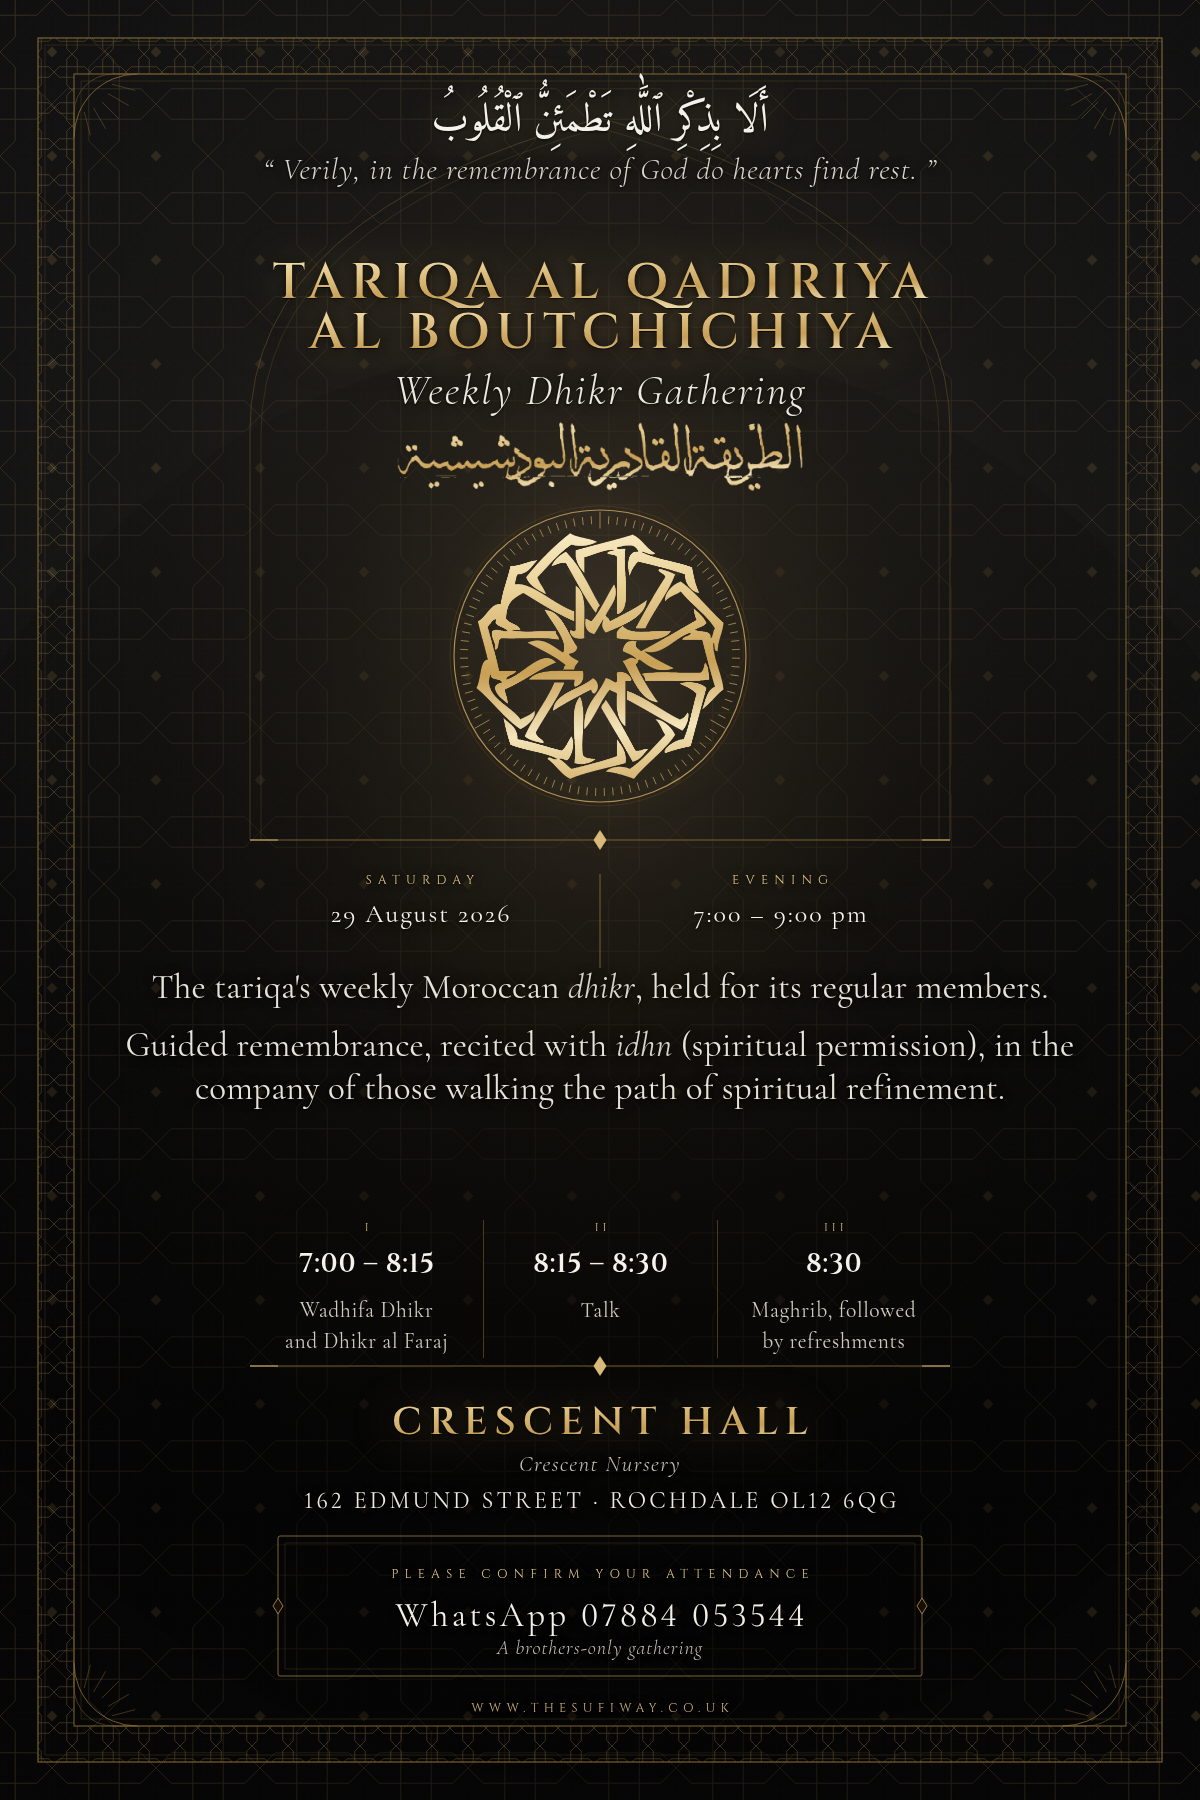
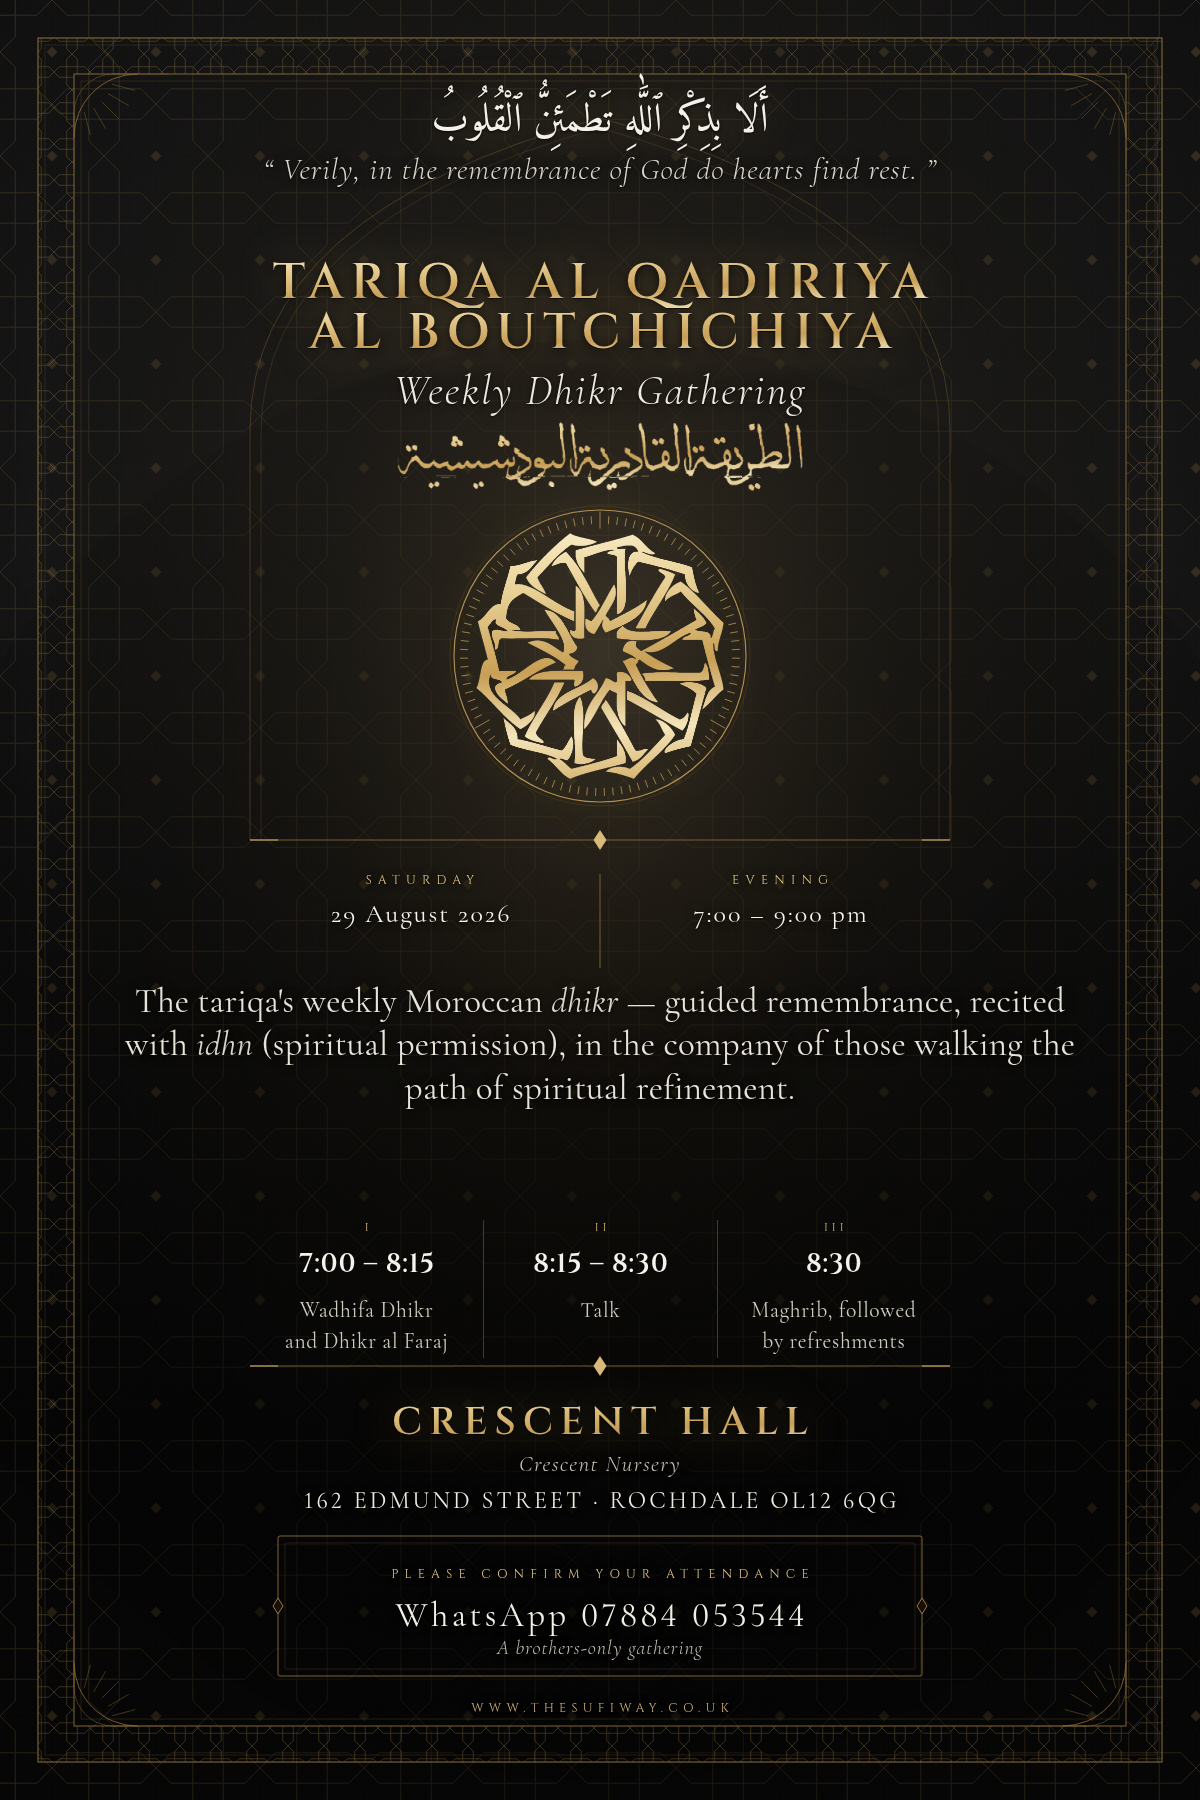
Outline the gold text, tighten body copy, auto-compute Maghrib times
Gold text (ayah/translation at top, "CRESCENT HALL" at bottom) was too
low-contrast against Sandstone's terracotta ground on its own. Added a
thin black -webkit-text-stroke outline via new gold_stroke/gold_stroke_thin
palette keys (default off, so every other colourway is unaffected).

Tightened the body paragraph to one sentence, dropping the now-redundant
"held for its regular members" clause.

Adds prayer_times.py: build_schedule(event_date) fetches the real Maghrib
time for Rochdale from the Aladhan API (Muslim World League method) and
derives the session/talk/Maghrib programme times from it, instead of those
being hand-typed against one fixed example date. render() takes an
optional sched dict; omitting it keeps every existing render unchanged
(DEFAULT_SCHED holds the current 29 August 2026 example).

Claude-Session: https://claude.ai/code/session_01W3RXmfEcLks2fUKiCDKANu

Changed region(s): [[0.0925, 0.5289, 0.8942, 0.6222]]

diff --git a/design/weekly-gathering/final/final.py b/design/weekly-gathering/final/final.py
@@ -128,13 +128,15 @@ html,body{{background:#000}}
 .wordmark{{filter:{pal.get('wordmark_shadow', 'drop-shadow(0 0 16px rgba(226,186,108,.24)) drop-shadow(0 1px 1px rgba(0,0,0,.55))')}}}
 .gold{{background:{pal['gold_grad']};
   -webkit-background-clip:text;background-clip:text;color:transparent;
+  -webkit-text-stroke:{pal.get('gold_stroke','0 transparent')};
   filter:{pal.get('gold_shadow', 'drop-shadow(0 1px 0 rgba(0,0,0,.6)) drop-shadow(0 2px 5px rgba(6,4,2,.7)) drop-shadow(0 0 20px rgba(214,172,100,.26))')}}}
 .at.gold{{text-shadow:none}}
 .ink{{color:{pal.get('title_color', '#1A1006')}}}
 .ayah{{font-family:Amiri,serif;font-size:40px;line-height:1.55;color:{pal['ayah']};
+  -webkit-text-stroke:{pal.get('gold_stroke_thin','0 transparent')};
   direction:rtl;filter:{pal.get('ayah_shadow', 'drop-shadow(0 0 16px rgba(214,172,100,.28))')}}}
 .gloss{{font-family:Cormorant,serif;font-style:italic;font-weight:300;font-size:31px;
-  letter-spacing:.03em;color:{pal['gloss']}}}
+  letter-spacing:.03em;color:{pal['gloss']};-webkit-text-stroke:{pal.get('gold_stroke_thin','0 transparent')}}}
 .t1{{font-family:Cinzel,serif;font-weight:600;font-size:50px;letter-spacing:.135em;
   text-indent:.135em;line-height:1}}
 .t2{{font-family:Cormorant,serif;font-style:italic;font-weight:300;font-size:43px;
@@ -233,27 +235,35 @@ def tiles_svg(pal):
 <div class="scrim"></div>
 '''
 
-def bottom_html():
-    return f'''
-<div class="at lab" style="top:{v.ARCH_BASE+32}px;left:{CX-350}px;width:340px">SATURDAY</div>
-<div class="at val" style="top:{v.ARCH_BASE+58}px;left:{CX-350}px;width:340px">29 August 2026</div>
-<div class="at lab" style="top:{v.ARCH_BASE+32}px;left:{CX+10}px;width:340px">EVENING</div>
-<div class="at val" style="top:{v.ARCH_BASE+58}px;left:{CX+10}px;width:340px">7:00 – 9:00 pm</div>
+# the current, manually-set example date — kept as the default so every
+# existing render (and every colourway's __main__ call) stays unchanged.
+# Pass a dict from prayer_times.build_schedule(event_date) to render(..., sched=...)
+# to compute these from the real Maghrib time for a different date instead.
+DEFAULT_SCHED = dict(
+    weekday="SATURDAY", date_str="29 August 2026", event_window="7:00 – 9:00 pm",
+    slot1_time="7:00 – 8:15", slot2_time="8:15 – 8:30", slot3_time="8:30",
+)
 
-<div class="at body" style="top:966px;left:{CX-500}px;width:1000px">
-The tariqa's weekly Moroccan <em>dhikr</em>, held for its regular members.
-</div>
-<div class="at body" style="top:1024px;left:{CX-500}px;width:1000px">
-Guided remembrance, recited with <em>idhn</em> (spiritual permission), in the company of
-those walking the path of spiritual refinement.
+def bottom_html(sched=None):
+    s = dict(DEFAULT_SCHED, **(sched or {}))
+    return f'''
+<div class="at lab" style="top:{v.ARCH_BASE+32}px;left:{CX-350}px;width:340px">{s['weekday']}</div>
+<div class="at val" style="top:{v.ARCH_BASE+58}px;left:{CX-350}px;width:340px">{s['date_str']}</div>
+<div class="at lab" style="top:{v.ARCH_BASE+32}px;left:{CX+10}px;width:340px">EVENING</div>
+<div class="at val" style="top:{v.ARCH_BASE+58}px;left:{CX+10}px;width:340px">{s['event_window']}</div>
+
+<div class="at body" style="top:980px;left:{CX-500}px;width:1000px">
+The tariqa's weekly Moroccan <em>dhikr</em> — guided remembrance, recited with
+<em>idhn</em> (spiritual permission), in the company of those walking the path
+of spiritual refinement.
 </div>
 
 <div class="cols" style="top:1220px">
-  <div><div class="rn">I</div><div class="pt" style="margin-top:11px">7:00 – 8:15</div>
+  <div><div class="rn">I</div><div class="pt" style="margin-top:11px">{s['slot1_time']}</div>
        <div class="pd" style="margin-top:13px">Wadhifa Dhikr<br>and Dhikr al&nbsp;Faraj</div></div>
-  <div><div class="rn">II</div><div class="pt" style="margin-top:11px">8:15 – 8:30</div>
+  <div><div class="rn">II</div><div class="pt" style="margin-top:11px">{s['slot2_time']}</div>
        <div class="pd" style="margin-top:13px">Talk</div></div>
-  <div><div class="rn">III</div><div class="pt" style="margin-top:11px">8:30</div>
+  <div><div class="rn">III</div><div class="pt" style="margin-top:11px">{s['slot3_time']}</div>
        <div class="pd" style="margin-top:13px">Maghrib, followed<br>by refreshments</div></div>
 </div>
 
@@ -268,7 +278,7 @@ those walking the path of spiritual refinement.
 <div class="at url" style="top:1700px">WWW.THESUFIWAY.CO.UK</div>
 '''
 
-def render(pal, out_name, scale=1):
+def render(pal, out_name, scale=1, sched=None):
     hero, hero_extra = build_hero(pal)
     html = f'''<!doctype html>
 <html lang="en"><head><meta charset="utf-8"><title>Weekly Dhikr Gathering</title>
@@ -277,7 +287,7 @@ def render(pal, out_name, scale=1):
 {tiles_svg(pal)}
 {frame_svg(pal, hero_extra)}
 {hero}
-{bottom_html()}
+{bottom_html(sched)}
 </div></body></html>'''
     hp = HERE / f"{out_name}.html"
     hp.write_text(html, encoding="utf-8")
@@ -392,8 +402,11 @@ SANDSTONE.update(
     # of gold, for a bold graphic centrepiece against the terracotta ground.
     title_cls="ink", title_color="#140D06",
     mark_grad="linear-gradient(176deg,#241708 0%,#140D06 55%,#000000 100%)",
-    # the top ayah + its translation read as clearly, richly gold.
+    # the top ayah + its translation read as clearly, richly gold — with a
+    # thin black outline round the letterforms, since flat gold-on-terracotta
+    # was too low-contrast to read at a glance.
     ayah="#C1922F", gloss="#B8862E", t2="#140D06", lab="#5C3E17", val="#3A210D",
+    gold_stroke="0.6px #140D06", gold_stroke_thin="0.4px #140D06",
     body="#5C3E17", pt="#5C3E17", pd="#5C3E17", rn="#734D1B", vsub="#8A5F22",
     addr="#3A210D", wa="#3A210D", note="#734D1B", url="#734D1B",
     halo0="#B8862E", halo1="#9C6F27", halo2="#7E5A20", halo3="#63451A",

diff --git a/design/weekly-gathering/final/prayer_times.py b/design/weekly-gathering/final/prayer_times.py
@@ -1,0 +1,80 @@
+#!/usr/bin/env python3
+"""Auto-compute the leaflet's programme times from the real Maghrib time for
+   a given date, instead of typing them in by hand and having them drift out
+   of sync with sunset as the date moves through the year.
+
+   Maghrib comes from the Aladhan API (api.aladhan.com), calculation method 3
+   (Muslim World League) — a standard astronomical method, not a specific
+   local mosque timetable. If the tariqa's own committee publishes a
+   timetable that differs from this by a few minutes, override MAGHRIB_OVERRIDES
+   below for the dates that matter, or swap fetch_maghrib()'s method.
+"""
+import datetime, json, urllib.request
+
+# Rochdale, OL12 6QG
+LAT, LON = 53.6097, -2.1561
+TZ = "Europe/London"
+METHOD = 3  # Muslim World League
+
+# How the rest of the evening is scheduled relative to Maghrib — inferred
+# from the one example poster (29 August 2026: session 7:00, talk 8:15-8:30,
+# Maghrib "8:30", ends "9:00"). Adjust these three numbers if the tariqa's
+# actual practice differs — everything else derives from them.
+SESSION_BEFORE_MAGHRIB = 90   # Wadhifa Dhikr and Dhikr al Faraj starts this many minutes before Maghrib
+TALK_BEFORE_MAGHRIB = 15      # the talk starts this many minutes before Maghrib
+EVENT_END_AFTER_MAGHRIB = 30  # refreshments/close, this many minutes after Maghrib
+
+# Manual overrides for specific ISO dates ("YYYY-MM-DD" -> "HH:MM", 24h),
+# for when the calculated time needs to be swapped for a published local
+# timetable value instead of trusting the API.
+MAGHRIB_OVERRIDES = {}
+
+
+def fetch_maghrib(event_date: datetime.date) -> datetime.time:
+    key = event_date.isoformat()
+    if key in MAGHRIB_OVERRIDES:
+        h, m = MAGHRIB_OVERRIDES[key].split(":")
+        return datetime.time(int(h), int(m))
+    url = (f"https://api.aladhan.com/v1/timings/{event_date:%d-%m-%Y}"
+           f"?latitude={LAT}&longitude={LON}&method={METHOD}&timezonestring={TZ}")
+    with urllib.request.urlopen(url, timeout=10) as r:
+        data = json.load(r)
+    h, m = data["data"]["timings"]["Maghrib"].split(":")
+    return datetime.time(int(h), int(m))
+
+
+def _fmt(t: datetime.time) -> str:
+    h = t.hour % 12 or 12
+    return f"{h}:{t.minute:02d}"
+
+
+def _fmt_ampm(t: datetime.time) -> str:
+    return f"{_fmt(t)} {'am' if t.hour < 12 else 'pm'}"
+
+
+def build_schedule(event_date: datetime.date) -> dict:
+    """Returns the strings final.py's page()/bottom_html() need, computed
+       from the real Maghrib time for event_date."""
+    maghrib = fetch_maghrib(event_date)
+    base = datetime.datetime.combine(event_date, maghrib)
+    session_start = base - datetime.timedelta(minutes=SESSION_BEFORE_MAGHRIB)
+    talk_start = base - datetime.timedelta(minutes=TALK_BEFORE_MAGHRIB)
+    event_end = base + datetime.timedelta(minutes=EVENT_END_AFTER_MAGHRIB)
+
+    return dict(
+        weekday=event_date.strftime("%A").upper(),
+        date_str=event_date.strftime("%-d %B %Y"),
+        event_window=f"{_fmt(session_start)} – {_fmt_ampm(event_end)}",
+        slot1_time=f"{_fmt(session_start)} – {_fmt(talk_start)}",
+        slot2_time=f"{_fmt(talk_start)} – {_fmt(base)}",
+        slot3_time=_fmt(base),
+        maghrib_24h=f"{maghrib.hour:02d}:{maghrib.minute:02d}",
+    )
+
+
+if __name__ == "__main__":
+    import sys
+    d = datetime.date.fromisoformat(sys.argv[1]) if len(sys.argv) > 1 else datetime.date(2026, 8, 29)
+    sched = build_schedule(d)
+    for k, v in sched.items():
+        print(f"{k:14s} {v}")

diff --git a/design/weekly-gathering/final/README.md b/design/weekly-gathering/final/README.md
@@ -97,6 +97,49 @@ above:
 - **Everything else** (date/time, body copy, programme, venue, WhatsApp,
   footer) — left exactly as it already was.
 
+The gold text (top ayah/translation, and "CRESCENT HALL" at the bottom,
+which still uses the shared `.gold` class) turned out to be low-contrast on
+its own against the terracotta ground — flat gold on orange. Fixed with a
+thin black `-webkit-text-stroke` outlined round the letterforms: new
+`gold_stroke`/`gold_stroke_thin` palette keys (default `"0 transparent"`,
+so no other colourway is affected), applied in `.gold`, `.ayah` and `.gloss`.
+
+The body paragraph was also rewritten again, still for members rather than
+newcomers but tighter — "held for its regular members" read as redundant
+once the whole poster's tone had already shifted, so it's now one sentence:
+*"The tariqa's weekly Moroccan dhikr — guided remembrance, recited with idhn
+(spiritual permission), in the company of those walking the path of
+spiritual refinement."*
+
+## Auto-computing the programme times from the real Maghrib time (`prayer_times.py`)
+
+The programme (session start, talk, "Maghrib, followed by refreshments")
+was hand-typed against one example date, so it drifts out of sync with
+sunset the moment the actual event date changes. `prayer_times.py` fixes
+that: `build_schedule(event_date)` calls the Aladhan API (Muslim World
+League calculation method, Rochdale's coordinates) for the real Maghrib
+time on that date, then derives the other three displayed times from three
+editable offsets — session start 90 min before Maghrib, the talk 15 min
+before, the event closing 30 min after — inferred from the one approved
+example (29 Aug 2026) since that's the only fixed point available. Adjust
+`SESSION_BEFORE_MAGHRIB`/`TALK_BEFORE_MAGHRIB`/`EVENT_END_AFTER_MAGHRIB` at
+the top of the file if the tariqa's actual practice differs. A
+`MAGHRIB_OVERRIDES` dict (keyed by ISO date) lets any specific date be
+pinned to a published local timetable value instead of the calculated one.
+
+`render()` now takes an optional `sched` dict — omit it and every colourway
+renders exactly as before (`DEFAULT_SCHED` in `final.py` holds the current
+29 August 2026 example); pass `prayer_times.build_schedule(date)` instead to
+regenerate the poster for a different date with correct times throughout:
+
+```bash
+python3 -c "
+import datetime, final as f, prayer_times as pt
+sched = pt.build_schedule(datetime.date(2026, 12, 5))
+f.render(f.SANDSTONE, 'final-sandstone-dec5', sched=sched)
+"
+```
+
 The page border — outer frame, arch outline, corner flourishes — is a rich
 red on Sandstone. It needed its own tokens (`border1`/`border2`/`border3`,
 new `.brd1`/`.brd2`/`.brd3` classes) rather than reusing `hair3`/`hair4`/
